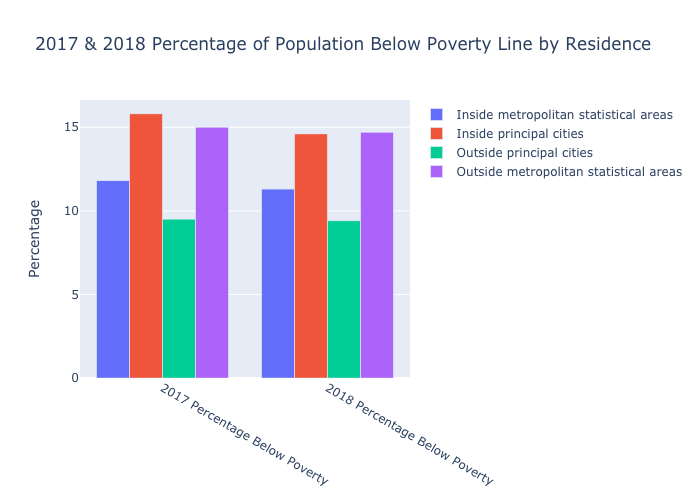
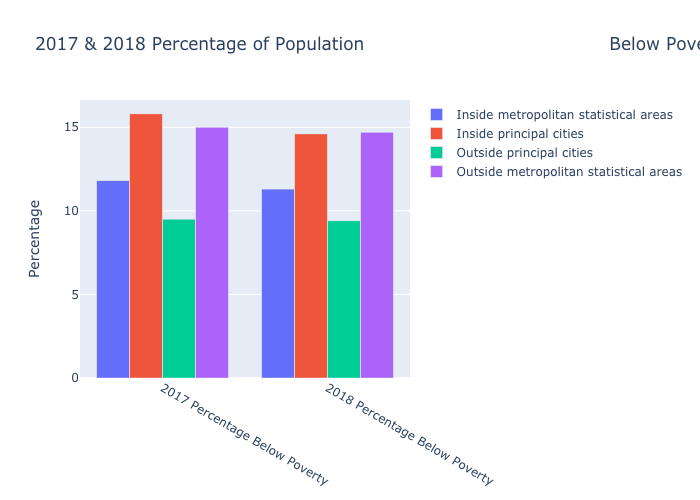
sam finished flake8

Changed region(s): [[0.51, 0.06, 1.0, 0.12]]

diff --git a/plot_poverty_vs_residence.py b/plot_poverty_vs_residence.py
@@ -1,32 +1,34 @@
 from process_files import getDF_A as getDF
-import pandas as pd
 import plotly.graph_objects as go
-from plotly.subplots import make_subplots
 
 
 def main():
     df = getDF()
-    df = df[(df['Category'] == 'Inside metropolitan statistical areas') | (df['Category'] == 'Inside principal cities') |
-            (df['Category'] == 'Inside principal cities') | (df['Category'] == 'Outside principal cities') |
+    df = df[(df['Category'] == 'Inside metropolitan statistical areas') |
+            (df['Category'] == 'Inside principal cities') |
+            (df['Category'] == 'Inside principal cities') |
+            (df['Category'] == 'Outside principal cities') |
             (df['Category'] == 'Outside metropolitan statistical areas')]
 
     categories_pop = ['2017 Total Population', '2018 Total Population']
-    categories_tot_pov = ['2017 Total Below Poverty', '2018 Total Below Poverty']
-    categories_per_pov = ['2017 Percentage Below Poverty', '2018 Percentage Below Poverty']
+    categories_tot_pov = ['2017 Total Below Poverty',
+                          '2018 Total Below Poverty']
+    categories_per_pov = ['2017 Percentage Below Poverty',
+                          '2018 Percentage Below Poverty']
     categories_inc = ['2017 Median Income', '2018 Median Income']
 
     fig_pop = go.Figure(data=[
         go.Bar(name='Inside metropolitan statistical areas', x=categories_pop,
-          y=df[df['Category'] == 'Inside metropolitan statistical areas']\
+               y=df[df['Category'] == 'Inside metropolitan statistical areas']
                .loc[18, categories_pop].to_numpy()),
         go.Bar(name='Inside principal cities', x=categories_pop,
-            y=df[df['Category'] == 'Inside principal cities'] \
+               y=df[df['Category'] == 'Inside principal cities']
                .loc[19, categories_pop].to_numpy()),
         go.Bar(name='Outside principal cities', x=categories_pop,
-            y=df[df['Category'] == 'Outside principal cities'] \
+               y=df[df['Category'] == 'Outside principal cities']
                .loc[20, categories_pop].to_numpy()),
         go.Bar(name='Outside metropolitan statistical areas', x=categories_pop,
-            y=df[df['Category'] == 'Outside metropolitan statistical areas'] \
+               y=df[df['Category'] == 'Outside metropolitan statistical areas']
                .loc[21, categories_pop].to_numpy())])
     fig_pop.update_layout(barmode='group',
                           title="2017 & 2018 Total Population by Residence",
@@ -34,58 +36,70 @@ def main():
     fig_pop.write_image("plots/R2017 & 2018 Total Population by Residence.png")
 
     fig_tot_pov = go.Figure(data=[
-        go.Bar(name='Inside metropolitan statistical areas', x=categories_tot_pov,
-               y=df[df['Category'] == 'Inside metropolitan statistical areas'] \
+        go.Bar(name='Inside metropolitan statistical areas',
+               x=categories_tot_pov,
+               y=df[df['Category'] == 'Inside metropolitan statistical areas']
                .loc[18, categories_tot_pov].to_numpy()),
         go.Bar(name='Inside principal cities', x=categories_tot_pov,
-               y=df[df['Category'] == 'Inside principal cities'] \
+               y=df[df['Category'] == 'Inside principal cities']
                .loc[19, categories_tot_pov].to_numpy()),
         go.Bar(name='Outside principal cities', x=categories_tot_pov,
-               y=df[df['Category'] == 'Outside principal cities'] \
+               y=df[df['Category'] == 'Outside principal cities']
                .loc[20, categories_tot_pov].to_numpy()),
-        go.Bar(name='Outside metropolitan statistical areas', x=categories_tot_pov,
-               y=df[df['Category'] == 'Outside metropolitan statistical areas'] \
+        go.Bar(name='Outside metropolitan statistical areas',
+               x=categories_tot_pov,
+               y=df[df['Category'] == 'Outside metropolitan statistical areas']
                .loc[21, categories_tot_pov].to_numpy())])
     fig_tot_pov.update_layout(barmode='group',
-                          title="2017 & 2018 Total Population Below Poverty Line by Residence",
-                          yaxis_title="Population Below Poverty Line")
-    fig_tot_pov.write_image("plots/2017 & 2018 Total Population Below Poverty Line by Residence.png")
+                              title="2017 & 2018 Total Population \
+                              Below Poverty Line by Residence",
+                              yaxis_title="Population Below Poverty Line")
+    fig_tot_pov.write_image("plots/2017 & 2018 Total Population Below \
+    Poverty Line by Residence.png")
 
     fig_per_pov = go.Figure(data=[
-        go.Bar(name='Inside metropolitan statistical areas', x=categories_per_pov,
-               y=df[df['Category'] == 'Inside metropolitan statistical areas'] \
+        go.Bar(name='Inside metropolitan statistical areas',
+               x=categories_per_pov,
+               y=df[df['Category'] == 'Inside metropolitan statistical areas']
                .loc[18, categories_per_pov].to_numpy()),
         go.Bar(name='Inside principal cities', x=categories_per_pov,
-               y=df[df['Category'] == 'Inside principal cities'] \
+               y=df[df['Category'] == 'Inside principal cities']
                .loc[19, categories_per_pov].to_numpy()),
         go.Bar(name='Outside principal cities', x=categories_per_pov,
-               y=df[df['Category'] == 'Outside principal cities'] \
+               y=df[df['Category'] == 'Outside principal cities']
                .loc[20, categories_per_pov].to_numpy()),
-        go.Bar(name='Outside metropolitan statistical areas', x=categories_per_pov,
-               y=df[df['Category'] == 'Outside metropolitan statistical areas'] \
+        go.Bar(name='Outside metropolitan statistical areas',
+               x=categories_per_pov,
+               y=df[df['Category'] ==
+                    'Outside metropolitan statistical areas']
                .loc[21, categories_per_pov].to_numpy())])
     fig_per_pov.update_layout(barmode='group',
-                          title="2017 & 2018 Percentage of Population Below Poverty Line by Residence",
-                          yaxis_title="Percentage")
-    fig_per_pov.write_image("plots/2017 & 2018 Percentage of Population Below Poverty Line by Residence.png")
+                              title="2017 & 2018 Percentage of Population \
+                              Below Poverty Line by Residence",
+                              yaxis_title="Percentage")
+    fig_per_pov.write_image(
+        "plots/2017 & 2018 Percentage of Population Below \
+        Poverty Line by Residence.png")
 
     fig_inc = go.Figure(data=[
         go.Bar(name='Inside metropolitan statistical areas', x=categories_inc,
-               y=df[df['Category'] == 'Inside metropolitan statistical areas'] \
+               y=df[df['Category'] == 'Inside metropolitan statistical areas']
                .loc[18, categories_inc].to_numpy()),
         go.Bar(name='Inside principal cities', x=categories_inc,
-               y=df[df['Category'] == 'Inside principal cities'] \
+               y=df[df['Category'] == 'Inside principal cities']
                .loc[19, categories_inc].to_numpy()),
         go.Bar(name='Outside principal cities', x=categories_inc,
-               y=df[df['Category'] == 'Outside principal cities'] \
+               y=df[df['Category'] == 'Outside principal cities']
                .loc[20, categories_inc].to_numpy()),
         go.Bar(name='Outside metropolitan statistical areas', x=categories_inc,
-               y=df[df['Category'] == 'Outside metropolitan statistical areas'] \
+               y=df[df['Category'] ==
+                    'Outside metropolitan statistical areas']
                .loc[21, categories_inc].to_numpy())])
     fig_inc.update_layout(barmode='group',
                           title="2017 & 2018 Median Income by Residence",
                           yaxis_title="Income")
     fig_inc.write_image("plots/2017 & 2018 Median Income by Residence.png")
+
 
 if __name__ == '__main__':
     main()

diff --git a/process_files.py b/process_files.py
@@ -1,48 +1,57 @@
 import pandas as pd
 import re
 
+
 def getDF_A():
     d1 = pd.read_csv("cse 163 datasets/A/ds1.csv")
     d2 = pd.read_csv("cse 163 datasets/A/ds2.csv")
     d5 = pd.read_csv("cse 163 datasets/A/ds5.csv")
 
     d1 = d1.loc[12:62, :]
-    d1.columns = ['Category', '2017 Total Population', '2017 Total Below Poverty', 'drop',
+    d1.columns = ['Category', '2017 Total Population',
+                  '2017 Total Below Poverty', 'drop',
                   '2017 Percentage Below Poverty',
-                  'drop', '2018 Total Population', '2018 Total Below Poverty', 'drop', '2018 Percentage Below Poverty',
+                  'drop', '2018 Total Population', '2018 Total Below Poverty',
+                  'drop', '2018 Percentage Below Poverty',
                   'drop', 'drop', 'drop']
     d1 = d1.loc[:, d1.columns != 'drop']
     d1 = d1.dropna()
-    # d1["Category"].replace({"Under age 18": "Aged Under 65",
-    #                         "Aged 18 to 64": "Aged Under 65",
-    #                         "Aged 65 and older": "Aged Over 65"
-    #                         }, inplace=True)
 
     d2 = d2.loc[9:12, :]
-    d2.columns = ['Category', '2017 Total Population', '2017 Total Below Poverty', 'drop',
+    d2.columns = ['Category', '2017 Total Population',
+                  '2017 Total Below Poverty', 'drop',
                   '2017 Percentage Below Poverty',
-                  'drop', '2018 Total Population', '2018 Total Below Poverty', 'drop', '2018 Percentage Below Poverty',
+                  'drop', '2018 Total Population', '2018 Total Below Poverty',
+                  'drop', '2018 Percentage Below Poverty',
                   'drop', 'drop', 'drop', 'drop']
     d2 = d2.loc[:, d2.columns != 'drop']
     d2 = d2.dropna()
-    d2["Category"].replace({"Primary Families4…………………………………": "Primary Families"
-                            }, inplace=True)
+    d2["Category"].replace({"Primary Families4…………………………………":
+                            "Primary Families"}, inplace=True)
 
     d5 = d5.loc[6:43, :]
-    d5.columns = ['Category', '2017 Number People', '2017 Median Income', 'drop', '2018 Number People',
-                  '2018 Median Income', 'drop', 'drop', 'drop', 'drop', 'drop', 'drop', 'drop', 'drop', 'drop',
-                  'drop', 'drop', 'drop', 'drop', 'drop', 'drop', 'drop', 'drop', 'drop', 'drop', 'drop', 'drop',
-                  'drop', 'drop', 'drop', 'drop', 'drop', 'drop', 'drop', 'drop', 'drop', 'drop', 'drop']
+    d5.columns = ['Category', '2017 Number People', '2017 Median Income',
+                  'drop', '2018 Number People',
+                  '2018 Median Income', 'drop', 'drop', 'drop',
+                  'drop', 'drop', 'drop', 'drop', 'drop', 'drop',
+                  'drop', 'drop', 'drop', 'drop', 'drop', 'drop',
+                  'drop', 'drop', 'drop', 'drop', 'drop', 'drop',
+                  'drop', 'drop', 'drop', 'drop', 'drop', 'drop',
+                  'drop', 'drop', 'drop', 'drop', 'drop']
     d5 = d5.loc[:, d5.columns != 'drop']
     d5 = d5.dropna()
     d5['Category'].replace({".  Married-couple": "Married-couple",
-                            ".  Female householder, no spouse present": "Female householder, no spouse present",
-                            ".  Male householder, no spouse present": "Male householder, no spouse present",
+                            ".  Female householder, no spouse present":
+                                "Female householder, no spouse present",
+                            ".  Male householder, no spouse present":
+                                "Male householder, no spouse present",
                             "   White, not Hispanic": "White, not Hispanic",
                             ".. Naturalized citizen": "Naturalized citizen",
                             ".. Not a citizen": "Not a citizen",
-                            ".. Inside principal cities": "Inside principal cities",
-                            ".. Outside principal cities": "Outside principal cities",
+                            ".. Inside principal cities":
+                                "Inside principal cities",
+                            ".. Outside principal cities":
+                                "Outside principal cities",
                             "Under 65 years": "Aged Under 65",
                             "65 years and older": "Aged Over 65"
                             }, inplace=True)
@@ -52,13 +61,16 @@ def getDF_A():
 
     df = df.merge(d5, left_on='Category', right_on='Category', how='outer')
 
-    columns = ['2017 Total Population', '2017 Total Below Poverty', '2018 Total Population', '2018 Total Below Poverty',
-               '2017 Number People', '2017 Median Income', '2018 Number People', '2018 Median Income']
+    columns = ['2017 Total Population', '2017 Total Below Poverty',
+               '2018 Total Population', '2018 Total Below Poverty',
+               '2017 Number People', '2017 Median Income',
+               '2018 Number People', '2018 Median Income']
 
     for col in columns:
         df[col] = df[col].apply(lambda x: re.sub('[^A-Za-z0-9]+', '', str(x)))
 
     return df
+
 
 def getDF_B():
     associates = getDegree("Associates", 26)
@@ -70,15 +82,21 @@ def getDF_B():
     df = pd.concat(frames)
     return df
 
+
 def getDegree(degree, ind):
     df = pd.read_csv("cse 163 datasets/B/" + degree + "_csv.csv")
     df = df.loc[[ind], :]
-    df.columns = ['Degree', 'Num Total', 'Num White', 'Num Black', 'Num Hispanic', 'Num Asian/Pacific Islander',
-                  'Num American Indian/ Alaskan native', 'Num Two or More', 'Num Non Resident', 'Perc Total',
-                  'Perc White', 'Perc Black', 'Perc Hispanic', 'Perc Asian/Pacific Islander',
+    df.columns = ['Degree', 'Num Total', 'Num White',
+                  'Num Black', 'Num Hispanic',
+                  'Num Asian/Pacific Islander',
+                  'Num American Indian/ Alaskan native', 'Num Two or More',
+                  'Num Non Resident', 'Perc Total',
+                  'Perc White', 'Perc Black', 'Perc Hispanic',
+                  'Perc Asian/Pacific Islander',
                   'Perc American Indian/ Alaskan native', 'Perc Two or More']
     df['Degree'] = degree
     return df
+
 
 def getDF_C():
     df_C = pd.read_csv("cse 163 datasets/C/state_csv.csv")
@@ -88,10 +106,13 @@ def getDF_C():
     df_C.columns = ['State', '2017-2018 Percentage Poverty']
     return df_C
 
+
 def getDF_D():
     df = pd.read_csv("cse 163 datasets/D/tableA1_csv.csv")
-    df = df.loc[16:20, ['Table with row headers in column A and column headers in row 4 through 6.', 'Unnamed: 1',
+    df = df.loc[16:20, ['Table with row headers in column A and column \
+                        headers in row 4 through 6.', 'Unnamed: 1',
                         'Unnamed: 2', 'Unnamed: 4', 'Unnamed: 5']]
-    df.columns = ['Race', '2017 Number (thousands)', '2017 Median Income', '2018 Number (thousands)',
+    df.columns = ['Race', '2017 Number (thousands)', '2017 Median Income',
+                  '2018 Number (thousands)',
                   '2018 Median Income']
     return df
